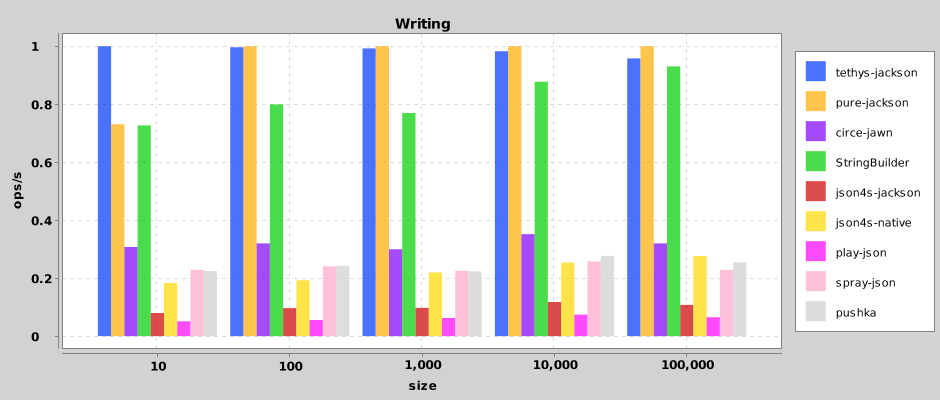
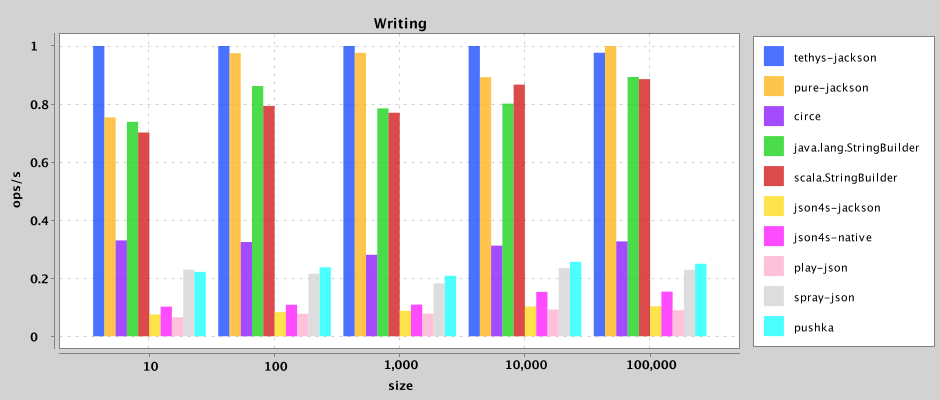
Update benchmarks, add benchmark for circe-jackson and java.lang.StringBuilder

diff --git a/modules/benchmarks/README.md b/modules/benchmarks/README.md
@@ -1,34 +1,37 @@
 
-# Parsing: ops/s
+# Parsing
 
 name \ size|10|100|1000|10000|100000
 ---|---|---|---|---|---
-tethys-jackson|21801.031|2468.338|246.451|20.202|2.379
-pure-jackson|25936.158|2707.511|272.544|23.996|2.796
-circe-jawn|13695.326|1599.672|152.555|14.788|0.993
-json4s-jackson|4548.517|564.808|50.725|4.887|0.354
-json4s-native|5040.585|516.776|44.817|2.889|0.055
-play-json|7226.712|774.596|71.921|5.97|0.348
-spray-json|11373.492|1170.072|106.751|10.981|0.751
+tethys-jackson|26151.191|3000.388|302.027|24.366|2.949
+pure-jackson|31502.612|3105.643|331.109|29.249|3.61
+circe-jawn|16899.409|1757.162|167.423|18.187|1.191
+circe-jackson|4442.562|503.162|51.477|4.508|0.343
+json4s-jackson|4783.177|584.713|59.856|4.736|0.375
+json4s-native|4565.986|472.484|38.631|2.702|0.061
+play-json|8097.424|802.017|90.829|6.715|0.5
+spray-json|13909.521|1461.049|143.485|13.54|1.09
+pushka|17011.93|1793.742|172.93|17.379|1.482
 
 ![ParsingPerformance](./images/ParsingPerformance.png)
      
          
 
 
-# Writing: ops/s
+# Writing
 
 name \ size|10|100|1000|10000|100000
 ---|---|---|---|---|---
-tethys-jackson|66389.133|6757.967|618.965|50.072|4.826
-pure-jackson|48536.608|6781.561|623.406|50.949|5.037
-circe-jawn|20395.042|2169.751|186.734|17.926|1.612
-StringBuilder|48274.971|5423.089|479.946|44.712|4.687
-json4s-jackson|5284.643|654.625|60.677|5.994|0.543
-json4s-native|12171.635|1305.59|137.036|12.945|1.393
-play-json|3401.413|377.737|38.956|3.786|0.328
-spray-json|15160.319|1630.685|140.493|13.12|1.151
-pushka|14922.97|1647.257|139.142|14.096|1.281
+tethys-jackson|80050.495|8080.388|781.19|59.795|5.256
+pure-jackson|60366.95|7881.735|762.444|53.371|5.383
+circe|26454.325|2624.433|219.181|18.68|1.76
+java.lang.StringBuilder|59123.466|6965.116|613.214|47.91|4.807
+scala.StringBuilder|56192.622|6411.235|601.54|51.841|4.768
+json4s-jackson|6041.135|673.173|68.802|6.143|0.556
+json4s-native|8167.998|878.273|85.061|9.145|0.828
+play-json|5254.174|625.363|60.902|5.524|0.482
+spray-json|18381.438|1745.193|142.44|14.07|1.234
+pushka|17759.173|1921.791|162.733|15.325|1.345
 
 ![WritingPerformance](./images/WritingPerformance.png)
      
